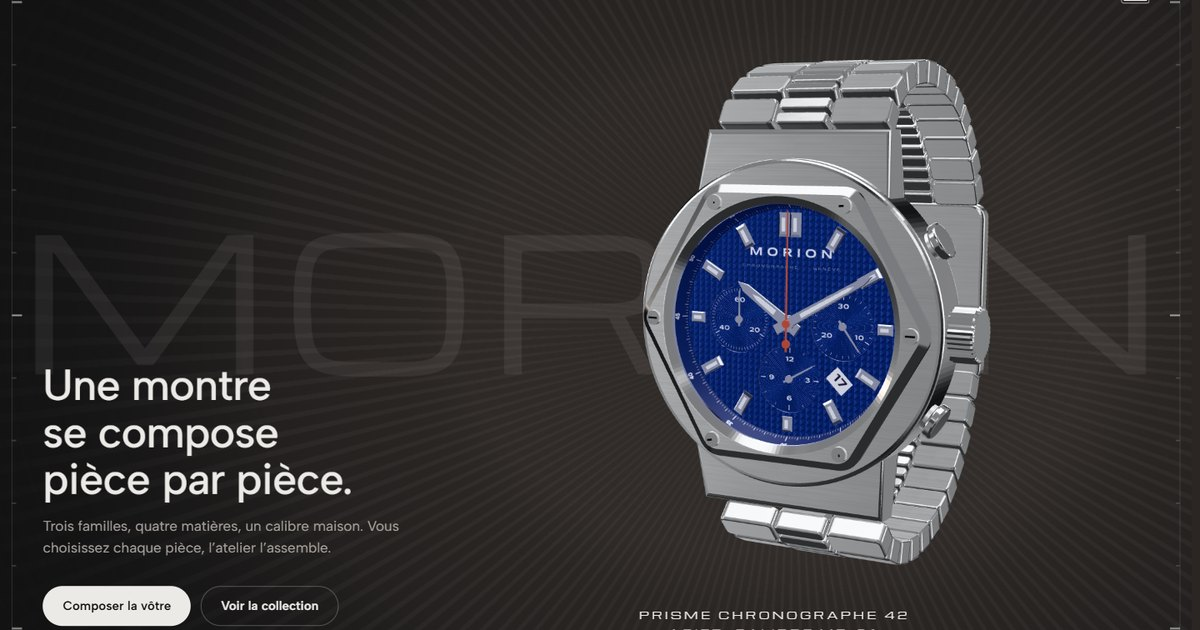
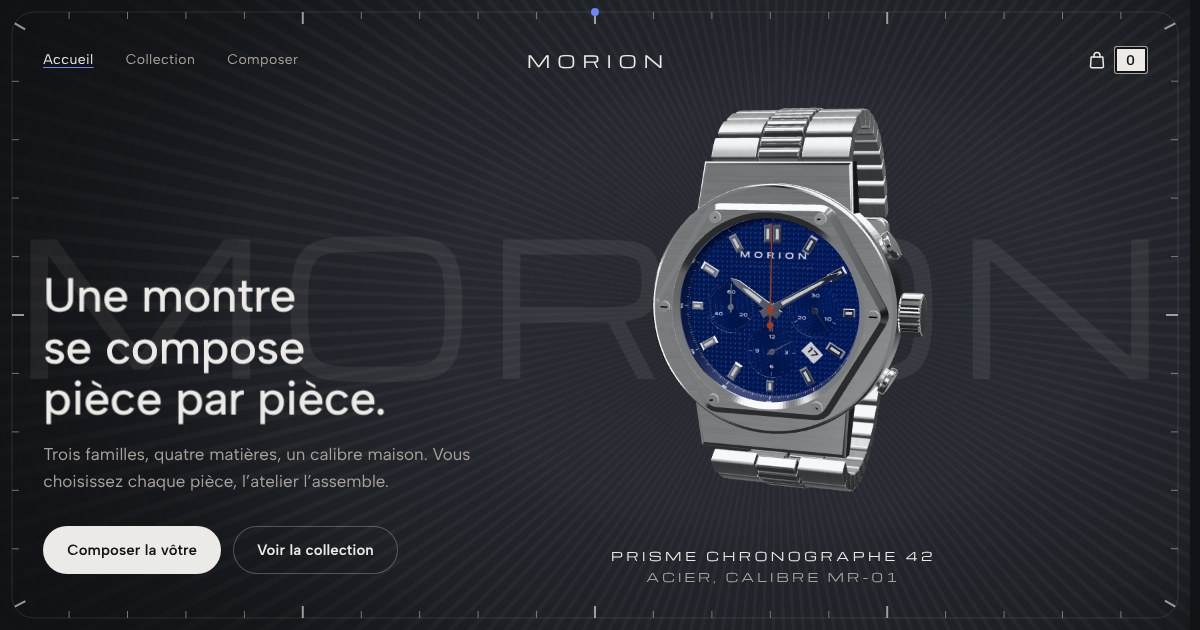
Bracelet métal : maillons en voussoir, jointifs sur le galbe du poignet
Chaque maillon est modelé de profil (plus long dehors que dedans, face
extérieure à peine bombée, coins arrondis, chanfrein sur les flancs) puis
extrudé sur la largeur. Les maillons se touchent par leur face extérieure
et le bracelet se lit comme une bande brossée continue, flancs polis, au
lieu d'une file de cubes séparés par des vides. Image de partage refaite.
Tests : 60 sur 60.

Claude-Session: https://claude.ai/code/session_015rcfVL5G8guztBsEDb6ceM

diff --git a/js/watch/strap.js b/js/watch/strap.js
@@ -48,6 +48,30 @@ function roundedRect(w, h, r) {
   return s;
 }
 
+// Profil d'un maillon dans le plan (sens du bracelet, extérieur) : trapèze aux coins arrondis,
+// face extérieure bombée de `crown`. Extrudé sur la largeur, puis tourné pour que X = largeur,
+// Y = sens du bracelet, Z = extérieur (le repère de frameAt).
+function linkGeometry(lenOut, lenIn, th, crown, width, bevel) {
+  // Le biseau déborde du profil de `bs` : on le retire pour garder les cotes demandées.
+  const bs = bevel * 0.8, ho = lenOut / 2 - bs, hi = lenIn / 2 - bs, h = th / 2 - bs, r = Math.min(0.32, th * 0.11);
+  const s = new THREE.Shape();
+  s.moveTo(-hi + r, -h);
+  s.lineTo(hi - r, -h);
+  s.quadraticCurveTo(hi, -h, hi + (ho - hi) * (r / th), -h + r);
+  s.lineTo(ho, h - r);
+  s.quadraticCurveTo(ho, h, ho - r, h);
+  s.quadraticCurveTo(0, h + crown * 2, -ho + r, h);
+  s.quadraticCurveTo(-ho, h, -ho, h - r);
+  s.lineTo(-hi - (ho - hi) * (r / th), -h + r);
+  s.quadraticCurveTo(-hi, -h, -hi + r, -h);
+  const g = new THREE.ExtrudeGeometry(s, {
+    depth: width, bevelEnabled: true, bevelThickness: bevel, bevelSize: bs, bevelSegments: 3, curveSegments: 8,
+  });
+  g.translate(0, 0, -width / 2);
+  g.applyMatrix4(new THREE.Matrix4().set(0, 0, 1, 0, 1, 0, 0, 0, 0, 1, 0, 0, 0, 0, 0, 1));
+  return g;
+}
+
 // --- Bracelet métal intégré : maillons latéraux brossés, maillons centraux polis ---
 
 function metalBracelet(config, curve, a, q) {
@@ -61,22 +85,19 @@ function metalBracelet(config, curve, a, q) {
     if (Math.abs(u - 0.5) < claspHalf) continue;
     rows.push(u);
   }
-  const thick = 3.3;
-  // Le maillon est modelé à sa vraie largeur, chanfrein compris : l'échelle par instance reste
-  // entre 0,8 et 1. Une forme de largeur 1 mise à l'échelle x8 étirait le chanfrein d'autant,
-  // élargissait le maillon de 80 % (il chevauchait son voisin) et donnait l'arête en escalier.
-  const BIS_O = 0.3, BIS_C = 0.26; // taille du chanfrein dans le plan de la forme
+  // Chaque maillon est un voussoir vu de profil : plus long dehors que dedans, face extérieure
+  // bombée, arêtes arrondies. Posés sur le galbe du poignet, les maillons se touchent presque
+  // par leur face extérieure et le bracelet se lit comme une bande continue, au lieu d'une
+  // file de cubes séparés par des vides. Le chanfrein court sur les deux flancs du maillon.
+  const thick = 3.0;
+  const BIS_O = 0.3, BIS_C = 0.24;
   const outerRef = a.w * 0.34 - 0.25;
   const centerRef = a.w - a.w * 0.34 * 2 - 0.5;
-  const outerGeo = new THREE.ExtrudeGeometry(roundedRect(outerRef - BIS_O * 2, pitch - 0.42 - BIS_O * 2, 0.5), {
-    depth: thick - 1.0, bevelEnabled: true, bevelThickness: 0.42, bevelSize: BIS_O, bevelSegments: 3, curveSegments: 6,
-  });
-  outerGeo.translate(0, 0, -(thick - 1.0) / 2);
-  const centerGeo = new THREE.ExtrudeGeometry(roundedRect(centerRef - BIS_C * 2, pitch / 2 - 0.42 - BIS_C * 2, 0.4), {
-    depth: thick - 1.2, bevelEnabled: true, bevelThickness: 0.4, bevelSize: BIS_C, bevelSegments: 3, curveSegments: 6,
-  });
-  centerGeo.translate(0, 0, -(thick - 1.2) / 2 + 0.25);
-  const mats = [braceletMaterial(config.case, 'brosse'), braceletMaterial(config.case, 'poli')];
+  const outerGeo = linkGeometry(pitch - 0.2, (pitch - 0.2) * 0.84, thick, 0.1, outerRef - BIS_O * 2, BIS_O);
+  const centerGeo = linkGeometry(pitch / 2 - 0.22, (pitch / 2 - 0.22) * 0.84, thick - 0.5, 0.14, centerRef - BIS_C * 2, BIS_C);
+  centerGeo.translate(0, 0, 0.42);
+  // Flancs (bouchons de l'extrusion) polis, dessus brossé dans le sens du bracelet.
+  const mats = [braceletMaterial(config.case, 'poli'), braceletMaterial(config.case, 'brosse')];
   const outer = new THREE.InstancedMesh(outerGeo, mats, rows.length * 2);
   const center = new THREE.InstancedMesh(centerGeo, braceletMaterial(config.case, 'poli'), rows.length * 2);
   outer.name = 'maillons-lateraux';

diff --git a/docs/decisions.md b/docs/decisions.md
@@ -238,3 +238,9 @@ Rehaussements tirés des challengers du tirage impeccable (clé `87aada4e`) :
 - **D36.** Chargement sur téléphone : le perlage (la plus longue des textures calculées pendant
   l'intro, ~0,3 s d'un bloc) est tiré en 512 px à motif identique (grains, anneaux et relief à
   l'échelle) : 268 → 78 ms mesurés.
+- **D37.** Bracelet métal : chaque maillon est un **voussoir** vu de profil (plus long dehors que
+  dedans, rapport 0,84), face extérieure à peine bombée, coins arrondis, chanfrein sur les flancs.
+  Extrudé sur la largeur au lieu de l'épaisseur. Les boîtes plates d'avant s'ouvraient sur le galbe
+  du poignet : de profil, une file de cubes séparés par des vides, et l'image de partage le
+  montrait. Désormais les maillons se touchent par leur face extérieure et le bracelet se lit comme
+  une bande brossée continue, flancs polis. `img/partage.jpg` refaite depuis l'accueil.
